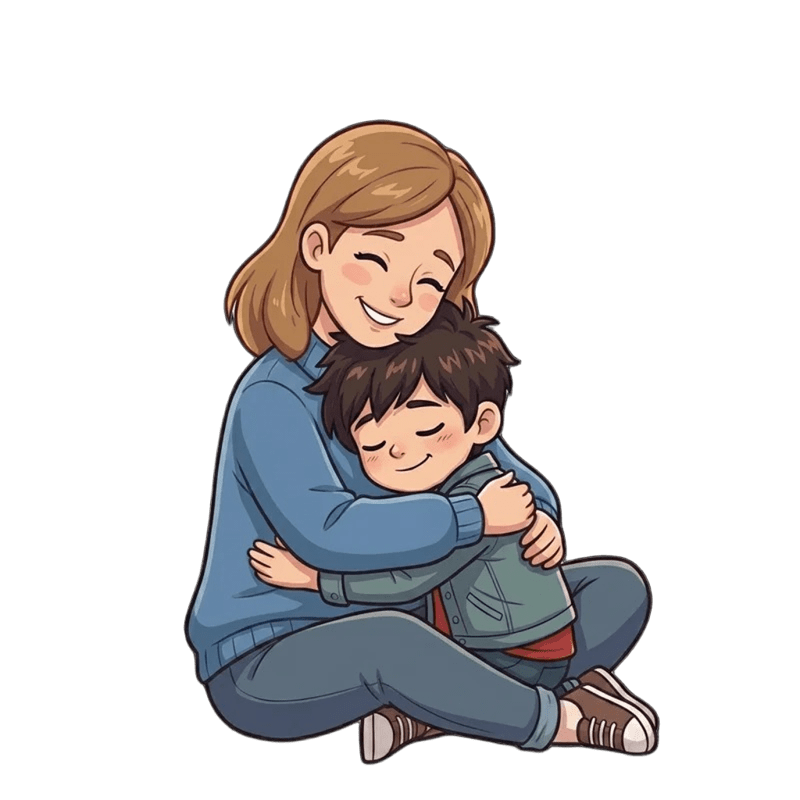
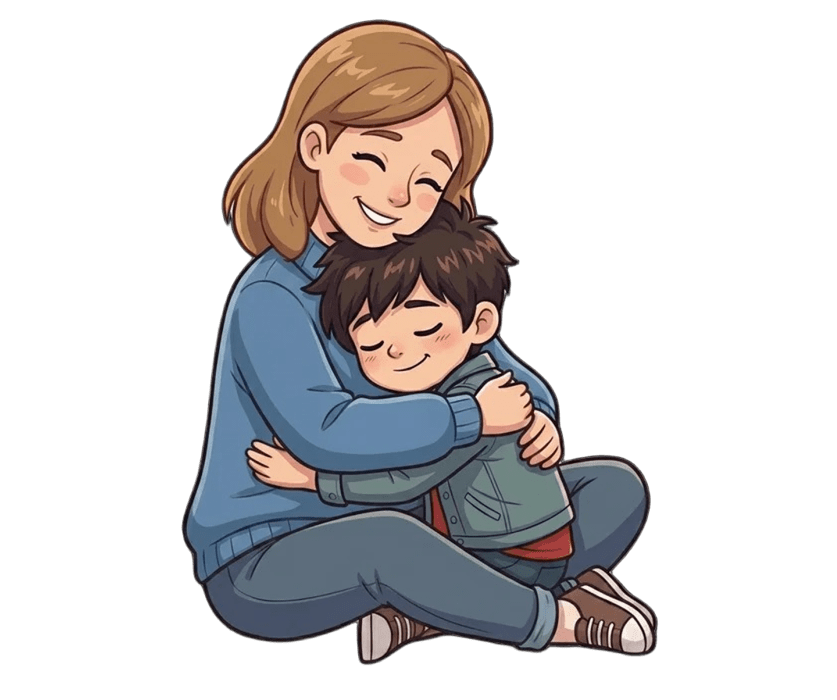
ajustes front

Changed region(s): [[0.2188, 0.03, 0.8438, 0.96]]

diff --git a/translation.js b/translation.js
@@ -41,7 +41,7 @@ const translations = {
     'waitlist_desc': 'Cadastre-se para garantir seu lugar na lista de espera e testar as novidades em primeira mão.',
     'waitlist_name_placeholder': 'Seu nome',
     'waitlist_placeholder': 'seu@email.com',
-    'waitlist_btn': 'Garantir minha vaga',
+    'waitlist_btn': 'Quero ser avisado',
     'waitlist_success': 'Ótimo! Te avisamos em breve 💛',
     'waitlist_trust': 'Receba um alerta de novas vagas. Sem spam.',
 
@@ -87,7 +87,7 @@ const translations = {
     'waitlist_desc': 'Sign up to secure your spot on the waitlist and try new features first.',
     'waitlist_name_placeholder': 'Your name',
     'waitlist_placeholder': 'your@email.com',
-    'waitlist_btn': 'Secure my spot',
+    'waitlist_btn': 'I want to be notified',
     'waitlist_success': "Great! We'll let you know soon 💛",
     'waitlist_trust': "Get an alert when new spots open up. No spam.",
 
@@ -133,7 +133,7 @@ const translations = {
     'waitlist_desc': 'Regístrate para asegurar tu lugar en la lista de espera y probar las novedades antes que nadie.',
     'waitlist_name_placeholder': 'Tu nombre',
     'waitlist_placeholder': 'tu@correo.com',
-    'waitlist_btn': 'Asegurar mi lugar',
+    'waitlist_btn': 'Quiero recibir una notificación',
     'waitlist_success': '¡Genial! Te avisaremos pronto 💛',
     'waitlist_trust': 'Recibe una alerta de nuevos lugares. Sin spam.',
 

diff --git a/styles.css b/styles.css
@@ -532,16 +532,15 @@ section { padding: 80px 20px; max-width: 1200px; margin: 0 auto; }
   max-width: none; width: 100%; margin: 0 auto;
   background: linear-gradient(135deg, #FFFBEA 0%, #FFF3C4 100%);
   padding: 56px;
-  display: grid;
-  grid-template-columns: 1.1fr 0.9fr;
-  gap: 48px;
+  display: flex;
   align-items: center;
+  justify-content: center;
   box-shadow: 0 20px 50px rgba(255, 195, 0, 0.15);
 }
 
-.waitlist-content { text-align: center; }
+.waitlist-content { text-align: left; }
 
-.waitlist-content h2 { font-size: clamp(1.6rem, 3vw, 2.2rem); font-weight: 800; color: var(--text-dark); margin-bottom: 14px; line-height: 1.2; }
+.waitlist-content h2 { font-size: clamp(1.1rem, 1.5vw, 1.6rem); font-weight: 800; color: var(--text-dark); margin-bottom: 14px; line-height: 1.2; }
 .waitlist-content p { font-size: 0.98rem; color: var(--text-gray); line-height: 1.7; margin: 0 auto 28px; font-weight: 500; max-width: 480px; }
 
 .waitlist-form { display: flex; flex-direction: column; gap: 14px; max-width: 480px; margin: 0 auto; }
